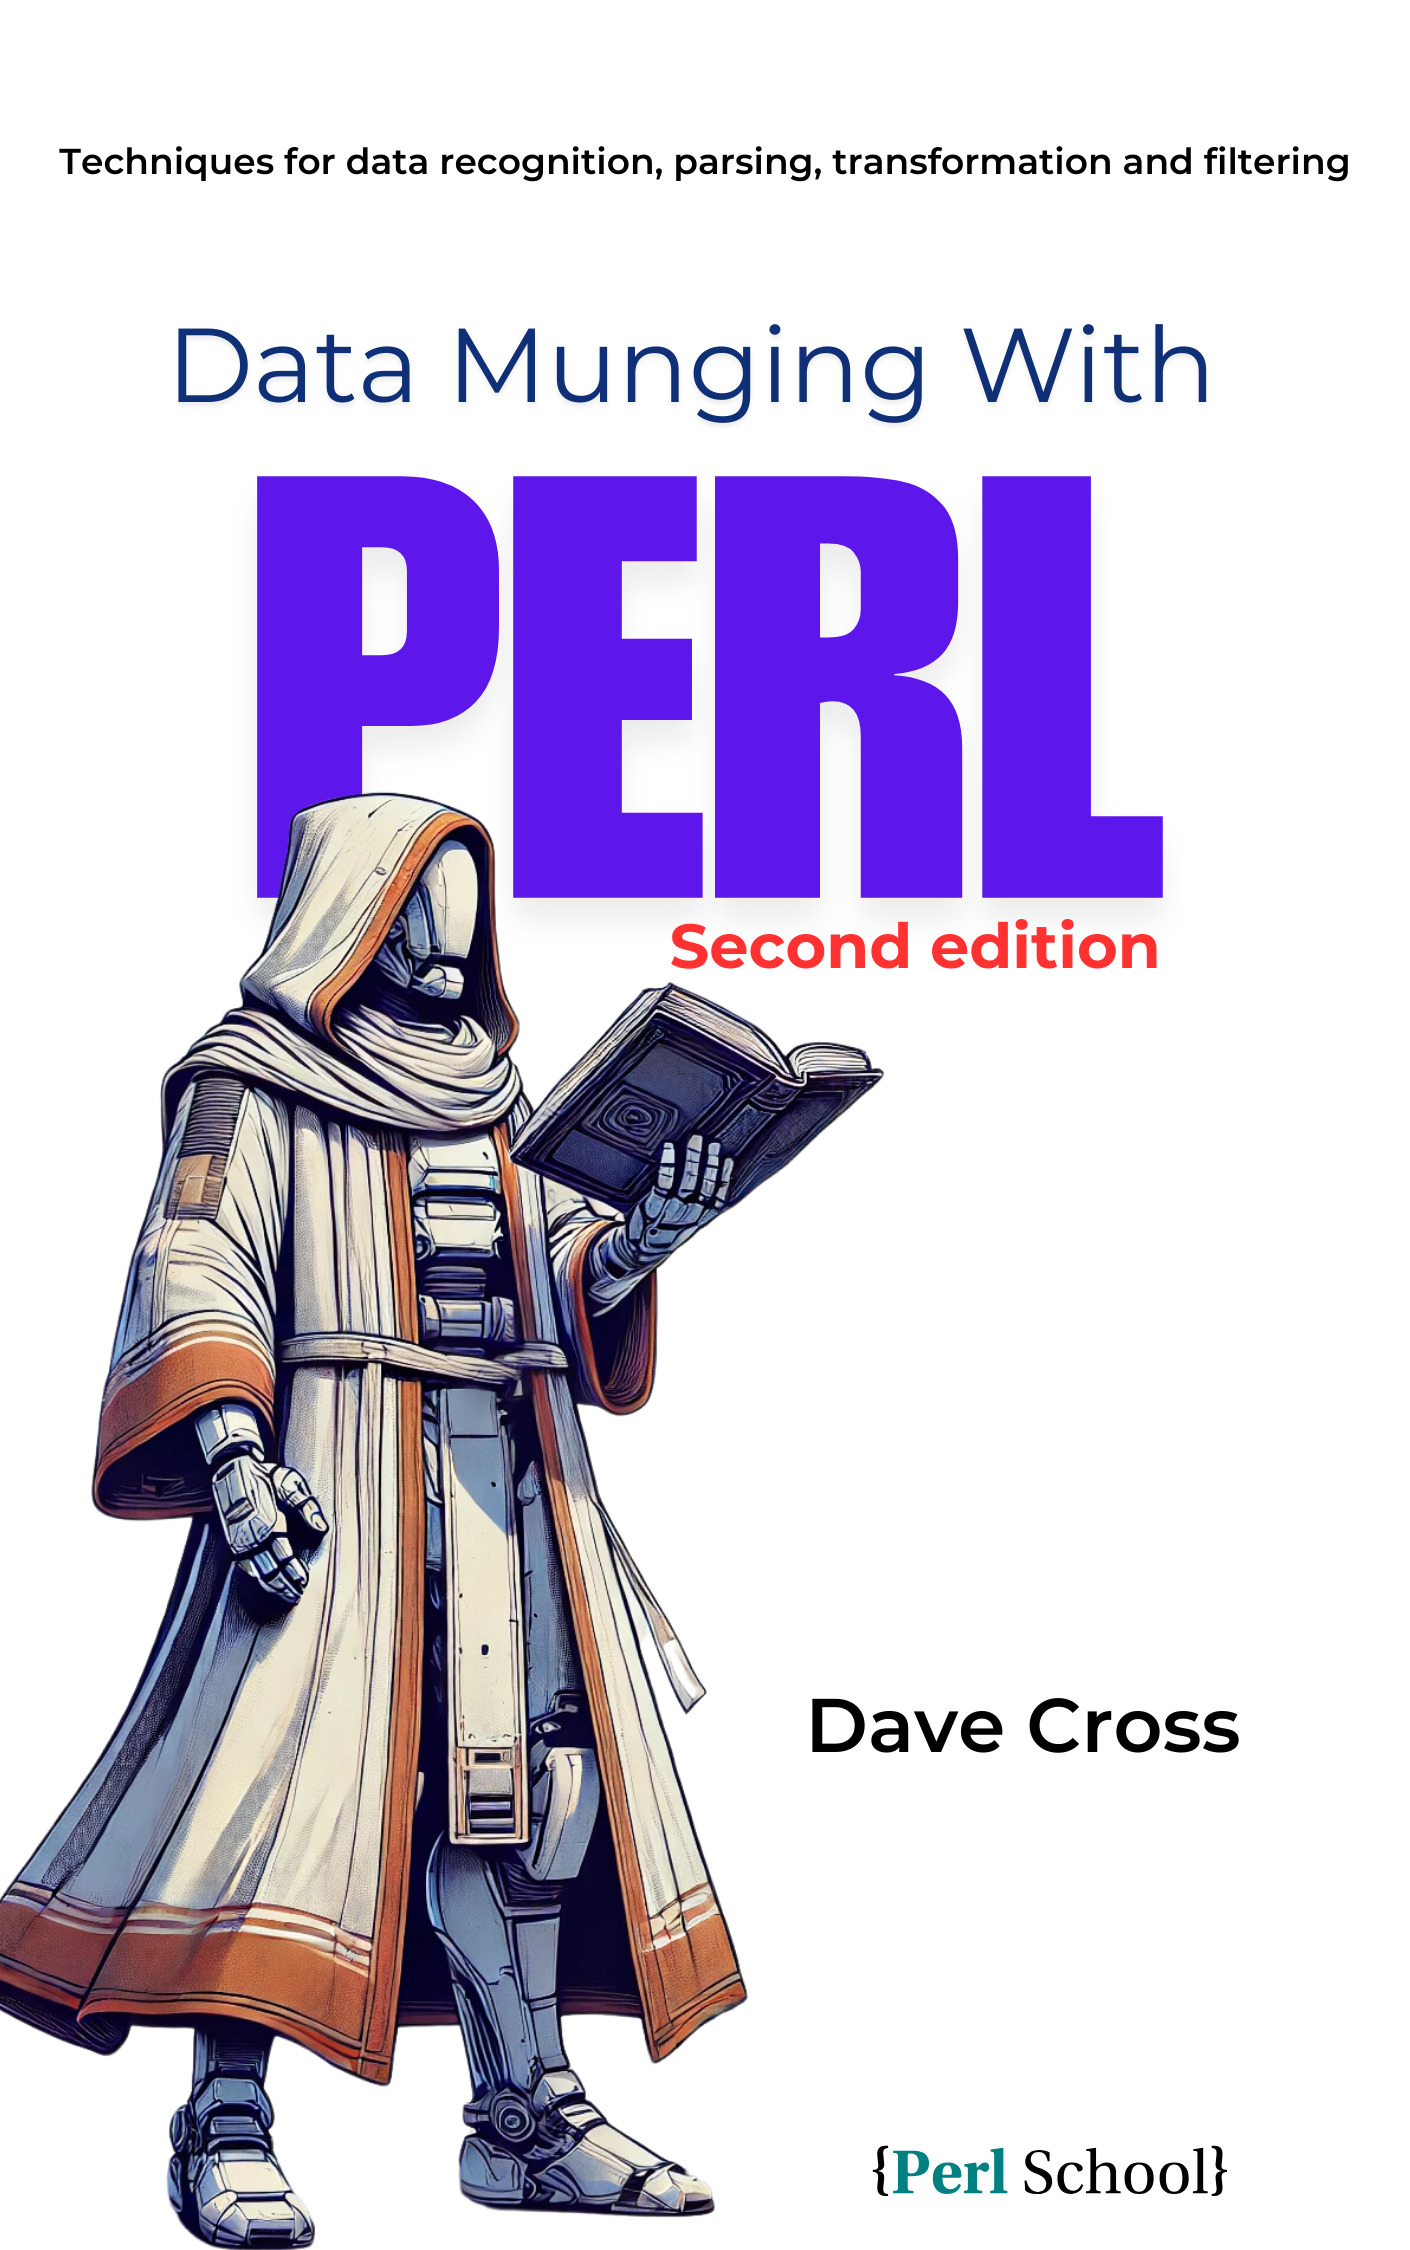
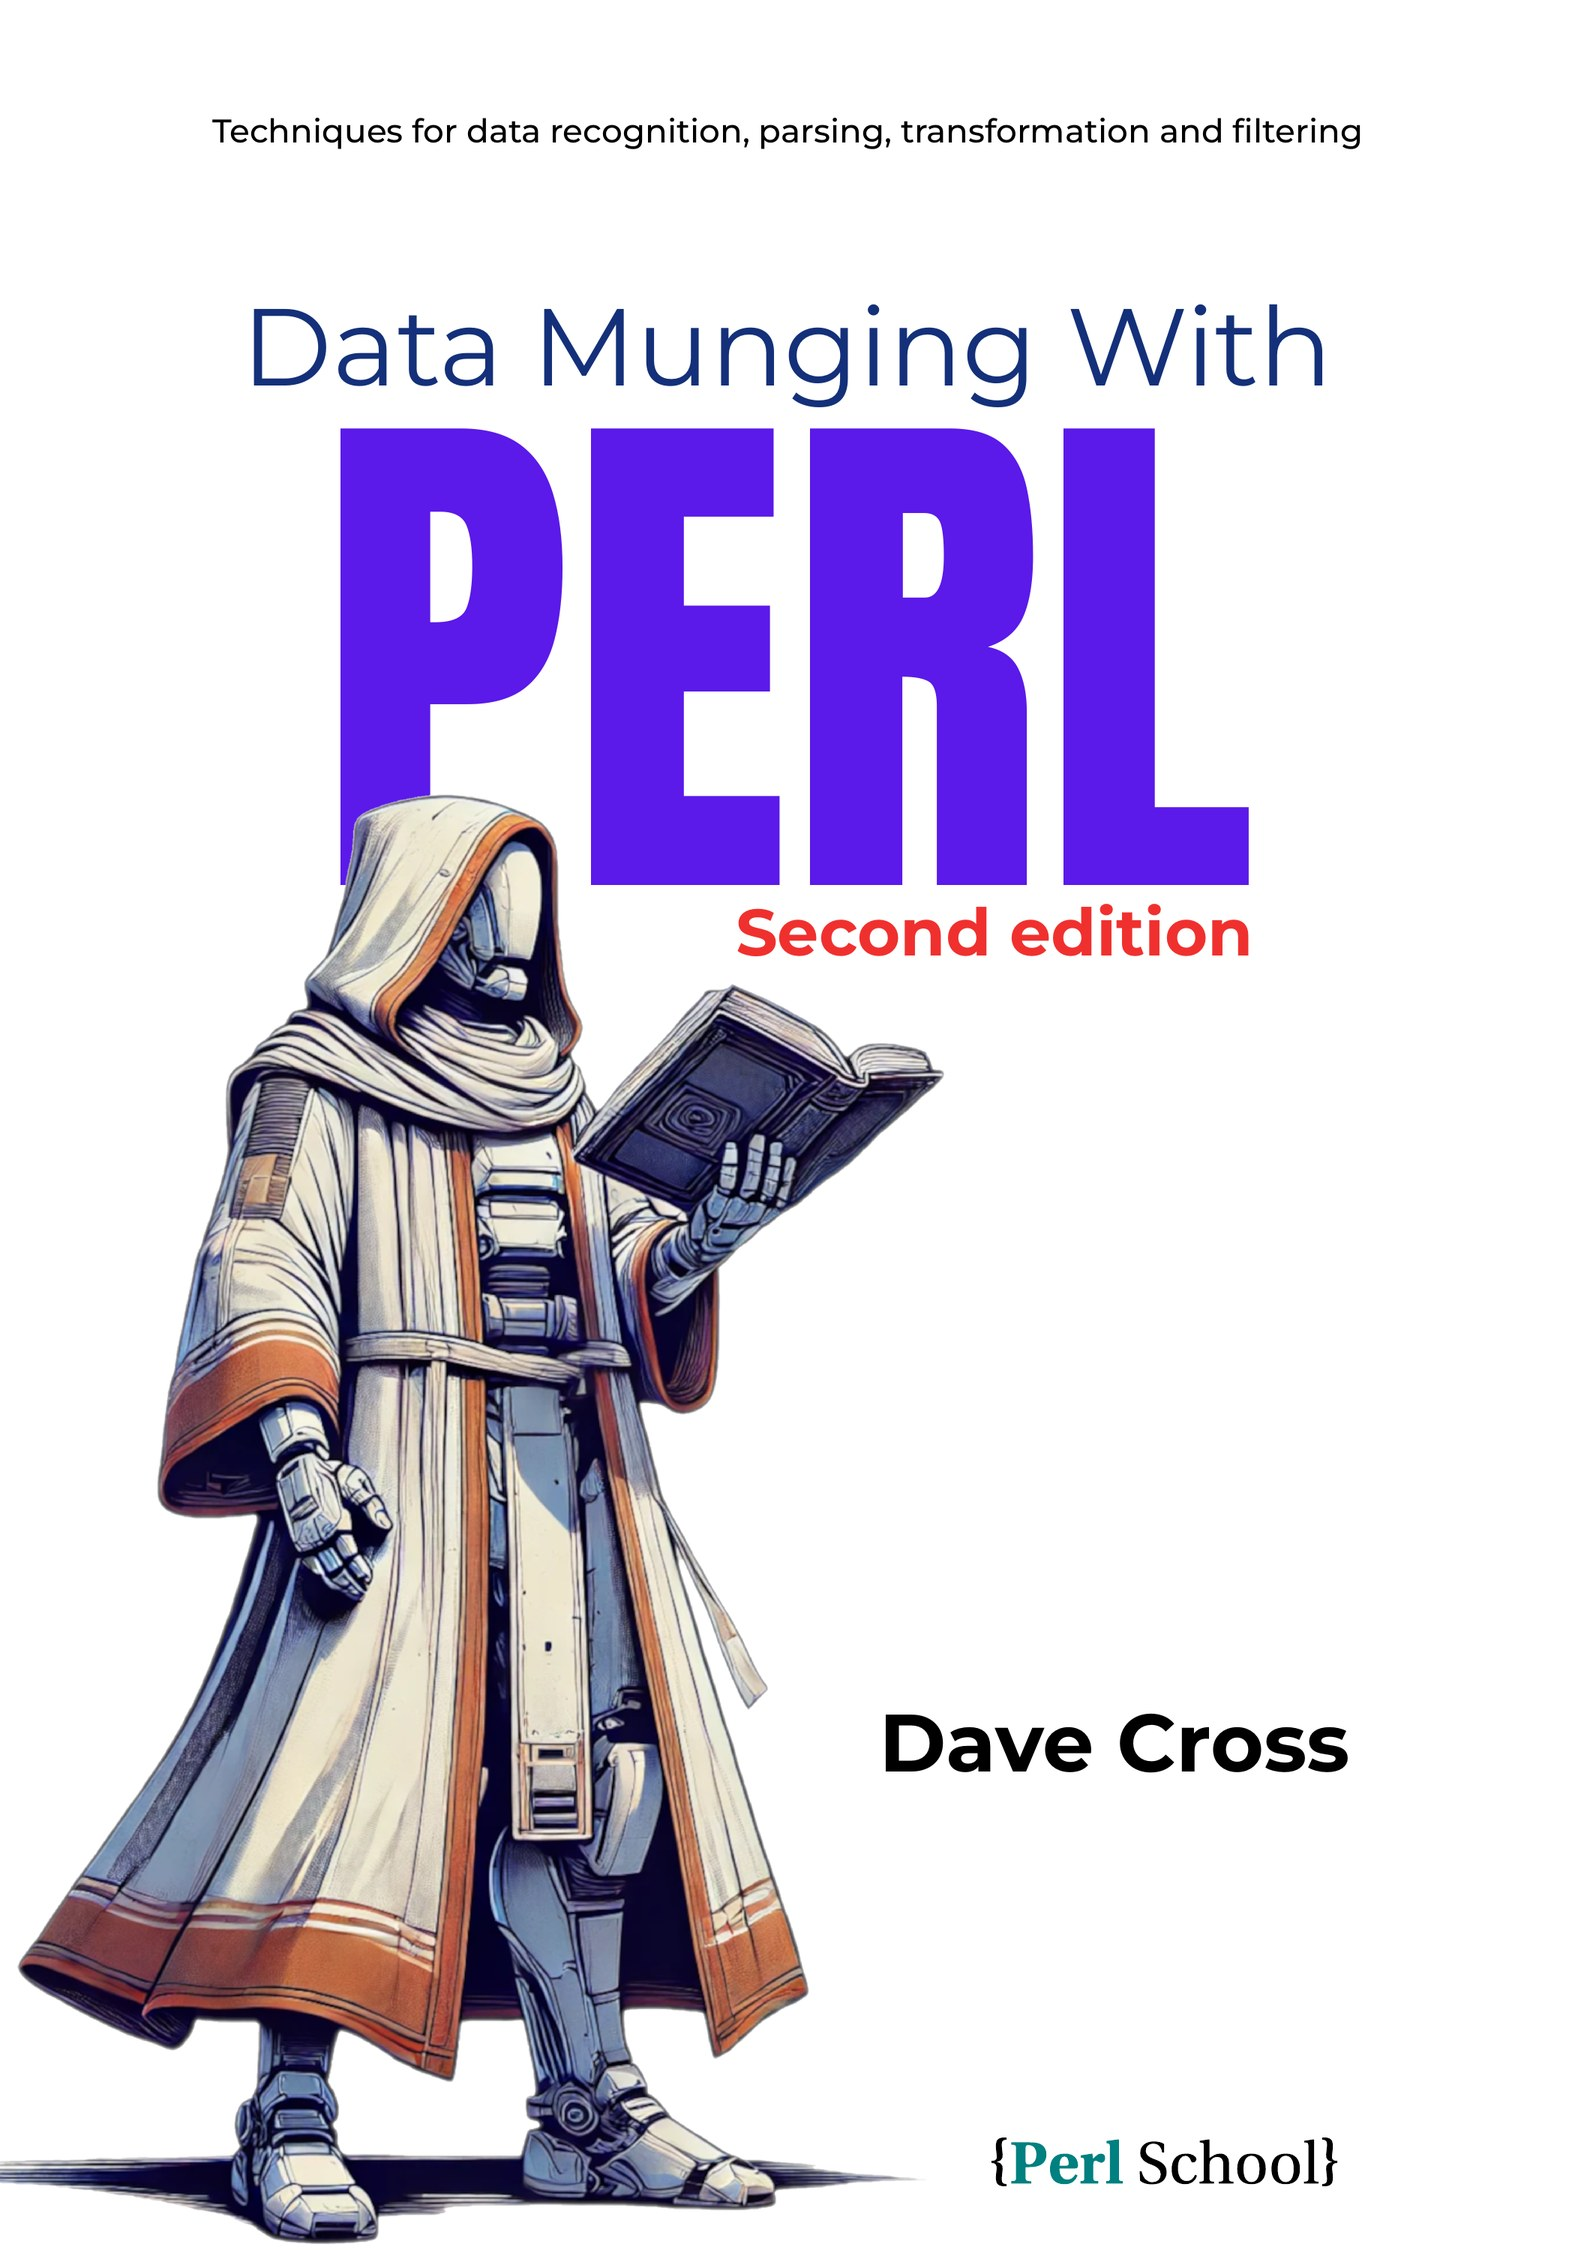
Publication day (#1)
* Publication day: Amazon links, published wording, new cover and social card

Homepage now says the book is published (paperback and Kindle from Amazon,
PDF and EPUB from Leanpub), with a 2026-11-21 'now published' update.
Merge on 21 November, not before.

* Leanpub price: $17.99

* Link the Kindle edition (B0HRFX47Y7)

diff --git a/docs/index.html b/docs/index.html
@@ -91,13 +91,33 @@
         ]
       },
       "publisher": { "@type": "Organization", "name": "Perl School" },
-      "offers": {
-        "@type": "Offer",
-        "price": "29.99",
-        "priceCurrency": "USD",
-        "url": "https://leanpub.com/datamungingwithperl",
-        "availability": "https://schema.org/InStock"
-      }
+      "datePublished": "2026-11-21",
+      "offers": [
+        {
+          "@type": "Offer",
+          "name": "Paperback",
+          "price": "20.00",
+          "priceCurrency": "GBP",
+          "url": "https://www.amazon.co.uk/dp/1065495714",
+          "availability": "https://schema.org/InStock"
+        },
+        {
+          "@type": "Offer",
+          "name": "Kindle edition",
+          "price": "12.99",
+          "priceCurrency": "GBP",
+          "url": "https://www.amazon.co.uk/dp/B0HRFX47Y7",
+          "availability": "https://schema.org/InStock"
+        },
+        {
+          "@type": "Offer",
+          "name": "PDF and EPUB",
+          "price": "17.99",
+          "priceCurrency": "USD",
+          "url": "https://leanpub.com/datamungingwithperl",
+          "availability": "https://schema.org/InStock"
+        }
+      ]
     }
     </script>
 
@@ -167,7 +187,7 @@
               </li>
             </ul>
 
-            <a href="https://leanpub.com/datamungingwithperl" class="btn btn-border-tp btn-small ml-3">Purchase Now</a>
+            <a href="#book" class="btn btn-border-tp btn-small ml-3 smoth-scroll">Buy Now</a>
           </div> 
         </div>
       </nav>
@@ -185,25 +205,29 @@
               </h1>
 
               <div class="mb-4">
-                <div class="h4">Price :- <span class="text-color">$29.99</span></div>
+                <div class="h4">Paperback <span class="text-color">&pound;20</span> &middot; Kindle <span class="text-color">&pound;12.99</span> &middot; PDF and EPUB <span class="text-color">$17.99</span></div>
               </div>
               <p class="mb-4">Master practical data manipulation with Perl through clear examples and battle-tested techniques. Perfect for Perl programmers needing efficient solutions for real-world data challenges.</p>
 
               <p class="book-status">
-                Read early, read often: the second edition is available now as
-                a work-in-progress from
-                <a href="https://leanpub.com/datamungingwithperl">LeanPub</a> (suggested price: $29.99)
+                Published on 21 November 2026. Available now as a
+                <a href="https://www.amazon.co.uk/dp/1065495714">paperback</a> and a
+                <a href="https://www.amazon.co.uk/dp/B0HRFX47Y7">Kindle ebook</a> from Amazon, and as a DRM-free
+                PDF and EPUB from <a href="https://leanpub.com/datamungingwithperl">Leanpub</a>.
               </p>
 
-              <a href="https://leanpub.com/datamungingwithperl" target="_blank" class="btn btn-main mt-2">
-                Read or download now <i class="ti-angle-right ml-3"></i>
+              <a href="https://www.amazon.co.uk/dp/1065495714" target="_blank" class="btn btn-main mt-2">
+                Buy on Amazon <i class="ti-angle-right ml-3"></i>
+              </a>
+              <a href="https://leanpub.com/datamungingwithperl" target="_blank" class="btn btn-main-2 mt-2 ml-2">
+                PDF and EPUB from Leanpub
               </a>
             </div>
           </div>
 
           <div class="col-lg-5 d-none d-lg-block">
             <div class="banner-img pt-5">
-              <img src="images/about/book.png" width="1410" height="2250" alt="Data Munging with Perl, 2nd edition — book cover" class="img-fluid w-100">
+              <img src="images/about/book.png" width="1575" height="2250" alt="Data Munging with Perl, 2nd edition — book cover" class="img-fluid w-100">
             </div>
           </div>
         </div> 
@@ -234,13 +258,14 @@
 
               <ul class="list-unstyled mt-4 mb-5">
                 <li><i class="ti-check mr-3"></i> 12 fully updated chapters</li>
-                <li><i class="ti-check mr-3"></i> Perl 5.40 syntax throughout</li>
+                <li><i class="ti-check mr-3"></i> Every example checked on Perl 5.36 to 5.44</li>
                 <li><i class="ti-check mr-3"></i> Modern CPAN modules</li>
                 <li><i class="ti-check mr-3"></i> New data formats</li>
                 <li><i class="ti-check mr-3"></i> Best practices</li>
               </ul>
 
-              <a href="https://leanpub.com/datamungingwithperl" class="btn btn-main-2">Purchase on LeanPub</a>
+              <a href="https://www.amazon.co.uk/dp/1065495714" class="btn btn-main-2">Buy on Amazon</a>
+              <a href="https://leanpub.com/datamungingwithperl" class="btn btn-main-2 ml-2">PDF and EPUB from Leanpub</a>
             </div>
           </div>
         </div>
@@ -587,7 +612,7 @@
               </div>
               <div class="content">
                 <h4>Free updates for life</h4>
-                <p>This edition is a work in progress — every future update reaches your library at no extra cost.</p>
+                <p>Buy the PDF and EPUB from Leanpub once, and any future update reaches your library at no extra cost.</p>
               </div>
             </div>
 
@@ -819,8 +844,9 @@
           <div class="col-lg-6">
             <div class="subscribe ">
               <h4 class="mb-4">Get the book</h4>
-              <p class="mb-4">Read early, read often — the work-in-progress edition is available now on Leanpub.</p>
-              <a href="https://leanpub.com/datamungingwithperl" class="btn btn-main">Purchase on Leanpub<i class="ti-angle-right ml-3"></i></a>
+              <p class="mb-4">Published 21 November 2026: paperback and Kindle from Amazon, DRM-free PDF and EPUB from Leanpub.</p>
+              <a href="https://www.amazon.co.uk/dp/1065495714" class="btn btn-main">Buy on Amazon<i class="ti-angle-right ml-3"></i></a>
+              <a href="https://leanpub.com/datamungingwithperl" class="btn btn-main-2 ml-2">Leanpub</a>
             </div>
           </div>
         </div>
